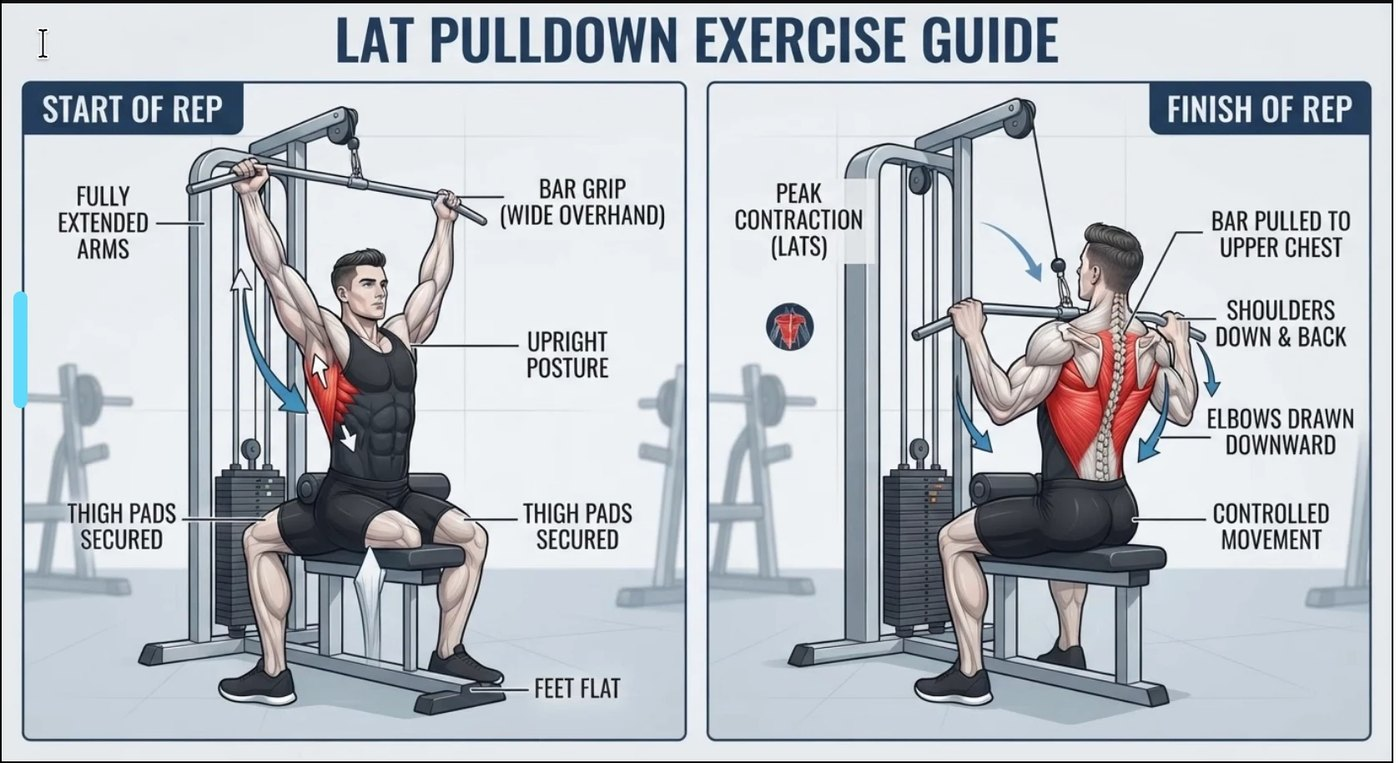
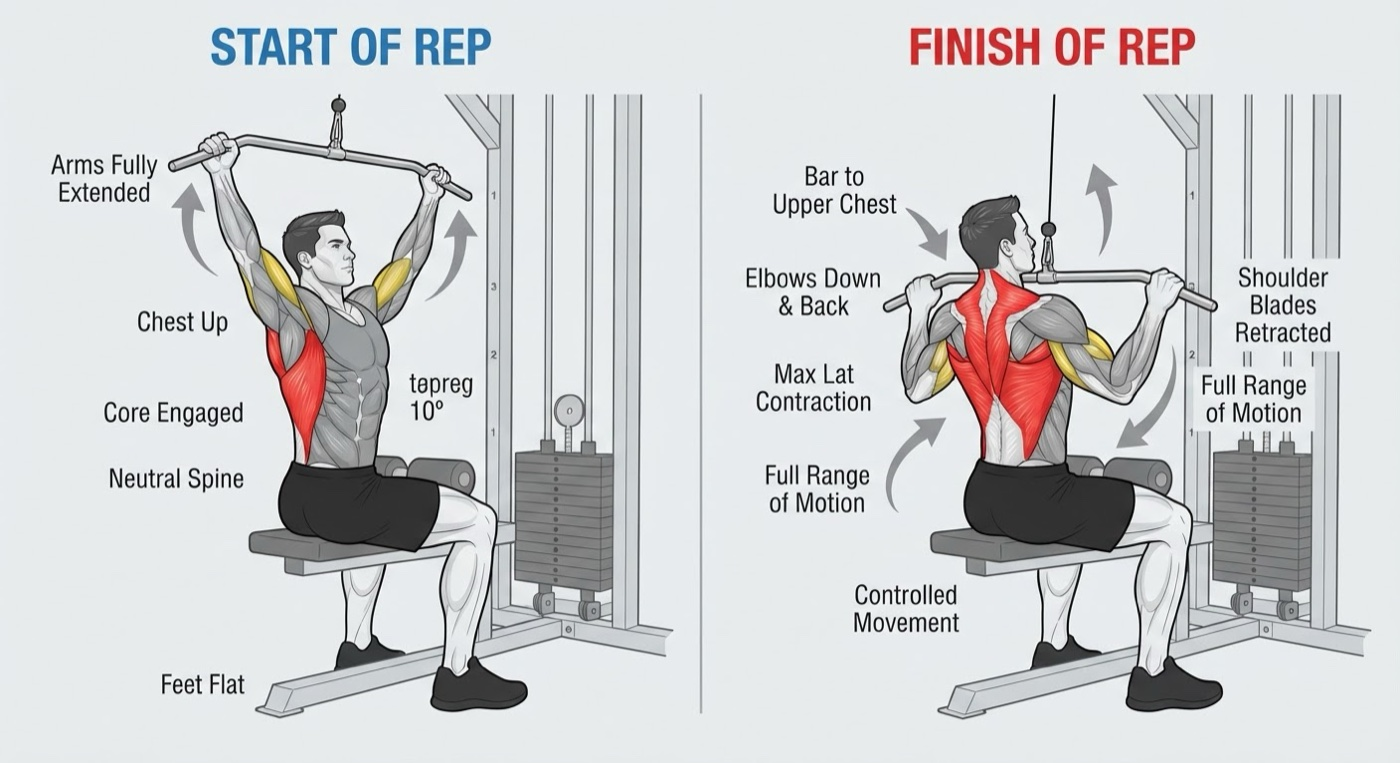
Add exercise illustrations

diff --git a/src/data/exercisePhotos.js b/src/data/exercisePhotos.js
@@ -3,7 +3,11 @@
 // `npm run build:art` after adding or removing an image.
 
 export const EXERCISE_PHOTOS = {
+  'bench-press': require('../../assets/exercises/bench-press.jpg'),
   'lat-pulldown': require('../../assets/exercises/lat-pulldown.jpg'),
+  'romanian-deadlift': require('../../assets/exercises/romanian-deadlift.jpg'),
+  'shoulder-press': require('../../assets/exercises/shoulder-press.jpg'),
+  'squat': require('../../assets/exercises/squat.jpg'),
 };
 
 export const getExercisePhoto = (slug) => EXERCISE_PHOTOS[slug] || null;
